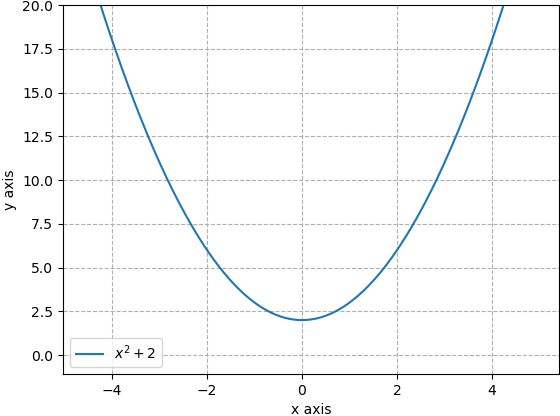
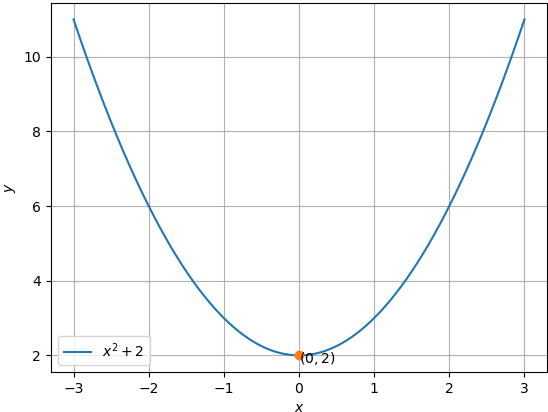
Add files via upload

diff --git a/Assignment5/Codes/code.py b/Assignment5/Codes/code.py
@@ -1,24 +1,40 @@
-import matplotlib.pyplot as plt
 import numpy as np
+import matplotlib.pyplot as plt
+from numpy import linalg as LA
 
-# Create the vectors X and Y
-x = np.linspace(-5,5,300)
-y = x ** 2 + 2
+len = 500
 
-# Create the plot
-plt.plot(x,y,label='$x^2 + 2$')
+#Standard parabola
+y1 = np.linspace(-3,3,len)
+y2 = np.power(y1,2)
+y = np.vstack((y1,y2))
 
-# Add a title
-plt.title('')
+#Given parabola parameters
+V = np.array(([1,0],[0,0]))
+u = np.array([0,0])
+F = 2
 
-# Add X and y Label
-plt.xlabel('x axis')
-plt.ylabel('y axis')
+#Affine transformation
+g = -np.array([0,1])
+vcm = g-u
+vcp = g+u
+A = np.vstack((V,vcp.T))
+b = np.append(vcm,-F)
+c = LA.lstsq(A,b,rcond=None)[0]
+#c = np.array(c)
+c = c.reshape(2,1)
 
-# Add a grid
-plt.grid(alpha=1,linestyle='--')
+#Generating the parabola
+x_par = y + c
 
-# Add a Legenda
-plt.legend()
-# Show the plot
+
+#plotting the parabola
+plt.plot(x_par[0,:],x_par[1,:],label='$x^2 + 2$')
+
+#Plotting all points
+plt.plot(c[0], c[1], 'o')
+plt.text(c[0] * (1 + 0.1), c[1] * (1-0.1) , '$(0,2)$')
+
+plt.xlabel('$x$');plt.ylabel('$y$')
+plt.legend(loc='best');plt.grid()
 plt.show()
